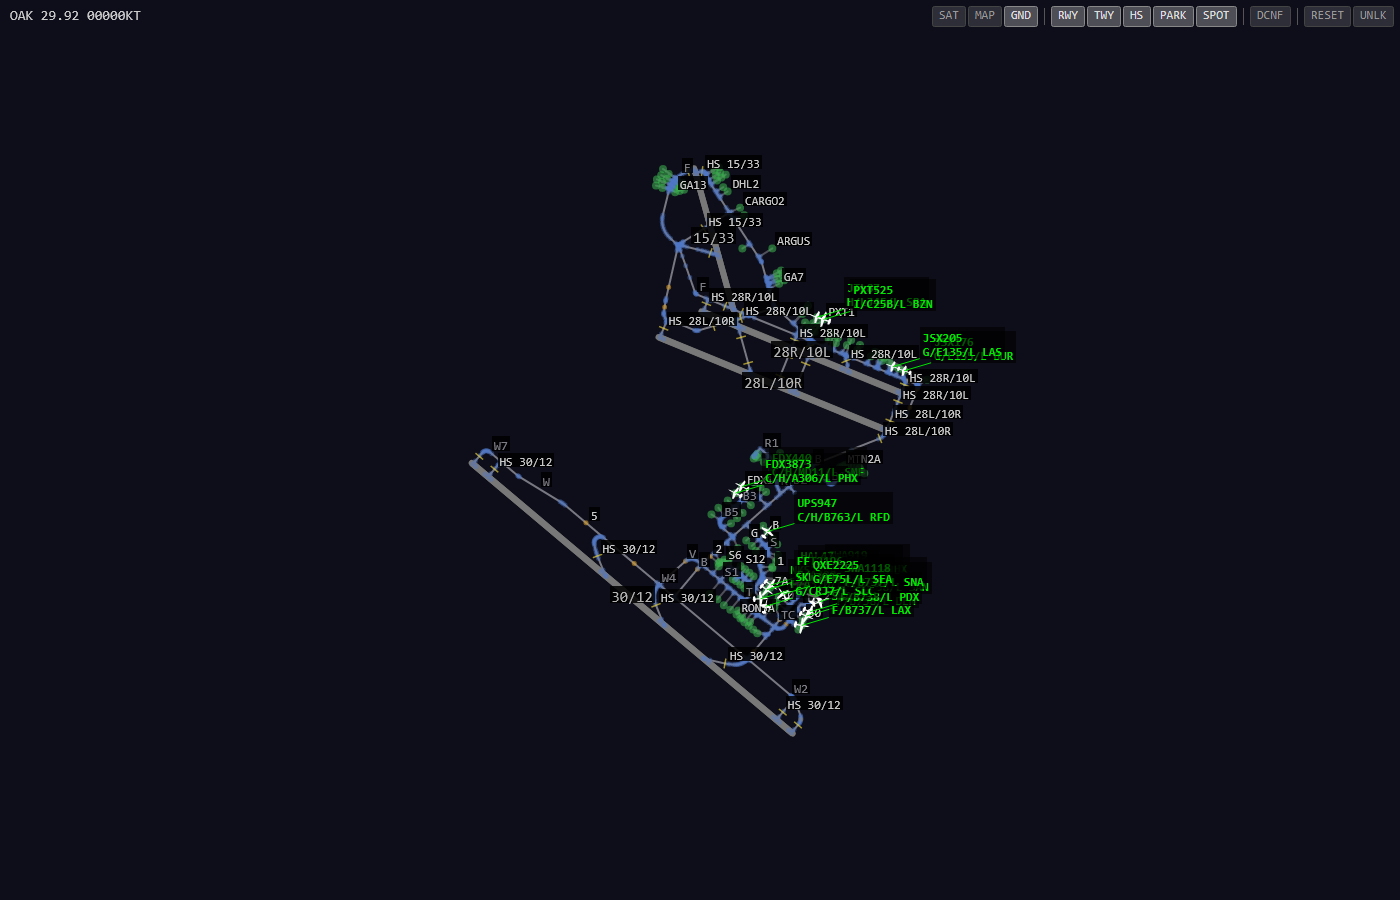
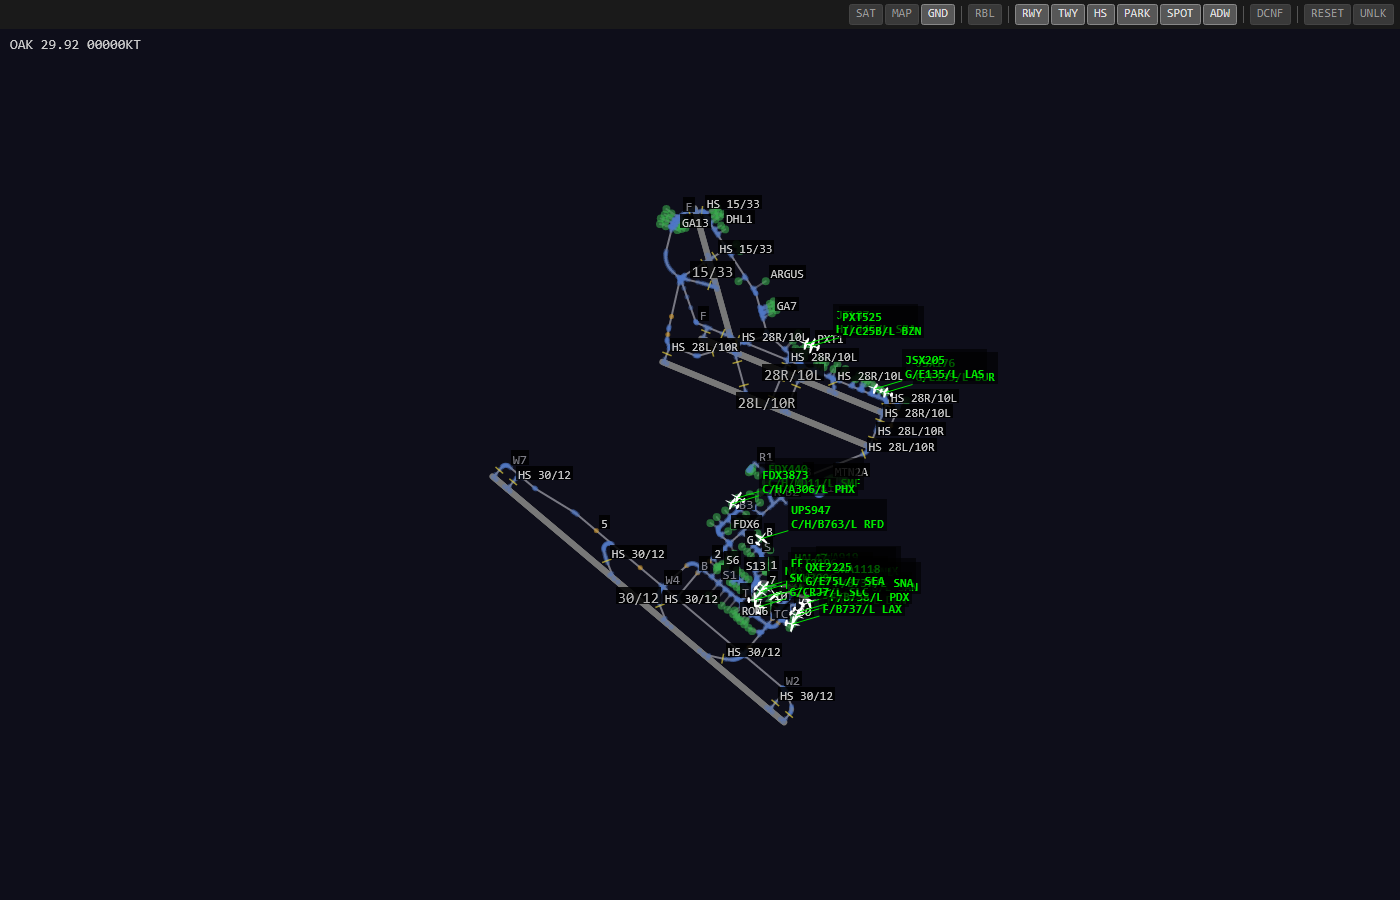
fix: dock Ground View controls bar above the canvas (#403)
- ground view controls bar sits above the map and scrolls sideways when narrow, no longer overlapping the weather readout
- pop-out ground view window has a 400x300 minimum size

Closes #403

Changed region(s): [[0.3379, 0.1867, 0.7371, 0.8089], [0.5836, 0.0, 1.0, 0.0311], [0.0307, 0.0, 0.0921, 0.0622]]

diff --git a/tests/Yaat.Client.UI.Tests/Views/Issue403GroundToolbarLayoutTests.cs b/tests/Yaat.Client.UI.Tests/Views/Issue403GroundToolbarLayoutTests.cs
@@ -1,0 +1,134 @@
+using Avalonia;
+using Avalonia.Controls;
+using Avalonia.Headless.XUnit;
+using Avalonia.Threading;
+using Avalonia.VisualTree;
+using Xunit;
+using Yaat.Client.Models;
+using Yaat.Client.Services;
+using Yaat.Client.ViewModels;
+using Yaat.Client.Views.Ground;
+
+namespace Yaat.Client.UI.Tests.Views;
+
+/// <summary>
+/// Layout coverage for issue #403: the Ground View controls bar was a non-wrapping StackPanel
+/// overlaid on the top-right of the canvas, while the renderer paints the weather readout
+/// ("OAK 29.92 00000KT") at a fixed (10, 20) on that same canvas. In a narrow window the bar's
+/// translucent buttons slid over the readout, and narrower still the bar pinned left and its
+/// trailing buttons were clipped off-screen. The bar now docks above the canvas inside a
+/// horizontal scroller, so no button can ever share pixels with the canvas and every button
+/// stays reachable at any width.
+/// </summary>
+public class Issue403GroundToolbarLayoutTests
+{
+    private const double Epsilon = 0.5;
+
+    [AvaloniaFact]
+    public void ToolbarButtons_NeverOverlapCanvas_AtWideAndNarrowWidths()
+    {
+        var (window, view) = ShowGroundView(800);
+        try
+        {
+            AssertNoButtonOverlapsCanvas(view);
+
+            window.Width = 480;
+            PumpLayout(window);
+            AssertNoButtonOverlapsCanvas(view);
+        }
+        finally
+        {
+            window.Close();
+        }
+    }
+
+    [AvaloniaFact]
+    public void NarrowWidth_ToolbarScrollsInsteadOfClipping()
+    {
+        var (window, view) = ShowGroundView(480);
+        try
+        {
+            var canvas = view.FindControl<GroundCanvas>("Canvas");
+            Assert.NotNull(canvas);
+            Assert.True(canvas.Bounds.Height > 100, $"Canvas collapsed to {canvas.Bounds.Height:F1}px tall");
+
+            var scroller = view.FindControl<ScrollViewer>("ToolbarScroller");
+            Assert.NotNull(scroller);
+            Assert.True(
+                scroller.Extent.Width > scroller.Viewport.Width + Epsilon,
+                $"Toolbar extent {scroller.Extent.Width:F1} should exceed the {scroller.Viewport.Width:F1} viewport so the tail can be scrolled into view"
+            );
+
+            var reset = view.FindControl<Button>("ResetButton");
+            Assert.NotNull(reset);
+            Assert.True(reset.Bounds.Width > 0, "RESET button was clipped to zero width");
+        }
+        finally
+        {
+            window.Close();
+        }
+    }
+
+    private static void AssertNoButtonOverlapsCanvas(GroundView view)
+    {
+        var canvas = view.FindControl<GroundCanvas>("Canvas");
+        Assert.NotNull(canvas);
+        var canvasOrigin = canvas.TranslatePoint(new Point(0, 0), view);
+        Assert.NotNull(canvasOrigin);
+        var canvasRect = new Rect(canvasOrigin.Value, canvas.Bounds.Size);
+
+        var buttons = view.GetVisualDescendants().OfType<Button>().Where(b => b.Classes.Contains("gnd-filter")).ToList();
+        Assert.NotEmpty(buttons);
+
+        foreach (var button in buttons)
+        {
+            var origin = button.TranslatePoint(new Point(0, 0), view);
+            Assert.NotNull(origin);
+            var rect = new Rect(origin.Value, button.Bounds.Size).Deflate(Epsilon);
+            Assert.False(
+                canvasRect.Intersects(rect),
+                $"Button '{button.Content}' at {rect} overlaps the ground canvas at {canvasRect} (view width {view.Bounds.Width:F0})"
+            );
+        }
+    }
+
+    private static (Window Window, GroundView View) ShowGroundView(double width)
+    {
+        var vm = new GroundViewModel(new ServerConnection(), sendCommand: (_, _, _) => Task.CompletedTask) { Layout = MinimalLayout() };
+        var view = new GroundView { DataContext = vm };
+        var window = new Window
+        {
+            Width = width,
+            Height = 600,
+            Content = view,
+        };
+        window.Show();
+        PumpLayout(window);
+        return (window, view);
+    }
+
+    private static void PumpLayout(Window window)
+    {
+        // Headless Avalonia needs a few measure/arrange + dispatcher cycles before
+        // size changes flow to nested controls; pump until stable.
+        for (var i = 0; i < 5; i++)
+        {
+            Dispatcher.UIThread.RunJobs();
+            window.UpdateLayout();
+            Dispatcher.UIThread.RunJobs();
+        }
+    }
+
+    private static GroundLayoutDto MinimalLayout()
+    {
+        // The toolbar is only visible once a layout is loaded; four corner nodes are enough.
+        var nodes = new List<GroundNodeDto>
+        {
+            new(1, 37.61, -122.39, "Taxiway", null, null, null),
+            new(2, 37.63, -122.39, "Taxiway", null, null, null),
+            new(3, 37.61, -122.36, "Taxiway", null, null, null),
+            new(4, 37.63, -122.36, "Taxiway", null, null, null),
+        };
+        return new GroundLayoutDto("SFO", nodes, [], null, null, null);
+    }
+}

diff --git a/src/Yaat.Client/Views/Ground/GroundView.axaml.cs b/src/Yaat.Client/Views/Ground/GroundView.axaml.cs
@@ -1619,4 +1619,23 @@ public partial class GroundView : UserControl
             _canvas.ScrollSensitivity = vm.Preferences.ScrollSensitivity;
         }
     }
+
+    /// <summary>
+    /// Scrolls the docked controls bar sideways when it is wider than the view (the scrollbar is
+    /// hidden, mirroring the radar DCB). Vertical wheel motion maps to horizontal travel; a
+    /// trackpad's horizontal delta is honoured directly.
+    /// </summary>
+    private void OnToolbarPointerWheelChanged(object? sender, PointerWheelEventArgs e)
+    {
+        var scroller = this.FindControl<ScrollViewer>("ToolbarScroller");
+        if (scroller is null)
+        {
+            return;
+        }
+
+        double delta = e.Delta.X != 0 ? e.Delta.X : e.Delta.Y;
+        double sensitivity = _canvas?.ScrollSensitivity ?? 1.0;
+        scroller.Offset = scroller.Offset.WithX(scroller.Offset.X - (Math.Sign(delta) * 40 * sensitivity));
+        e.Handled = true;
+    }
 }

diff --git a/docs/architecture.md b/docs/architecture.md
@@ -73,6 +73,7 @@ The Task Index above tells you *which files*; these docs explain *how each subsy
 
 - **Sim tests**: `tests/Yaat.Sim.Tests/` — commands, phases, physics, parsers, nav data
 - **Client tests**: `tests/Yaat.Client.Tests/` — view model logic, command input
+- **UI tests**: `tests/Yaat.Client.UI.Tests/` — headless window tests for views and layout
 - **Test data**: `tests/Yaat.Sim.Tests/TestData/` — NavData.dat + `navdata-manifest.json`, FAACIFP18.gz + `cifp-manifest.json`, airport GeoJSON. Refresh pins: `tools/refresh-navdata.py`, FAA CIFP via `CifpPathResolver` at test load.
 - **Shared loader**: `TestVnasData.EnsureInitialized()` — always use this, never synthetic stubs
 
@@ -366,8 +367,8 @@ Views/Map/
   RightClickGesture.cs          # Right-button click-vs-drag tracker shared by radar + ground: menu on release-without-drag, pan otherwise
 
 Views/Ground/
-  GroundView.axaml.cs           # Ground view control with context menus + layer toggles (SAT/MAP/GND)
-  GroundViewWindow.axaml.cs     # Pop-out ground window
+  GroundView.axaml.cs           # Ground view control with context menus + docked toolbar (layer/label toggles, hidden-scrollbar horizontal ScrollViewer); OnToolbarPointerWheelChanged wheel-scrolls when toolbar is narrower than content
+  GroundViewWindow.axaml.cs     # Pop-out ground window with enforced minimum dimensions
   GroundCanvas.cs               # SkiaSharp canvas with StyledProperties + hit-testing
   GroundRenderer.cs             # Stateless SkiaSharp ground renderer (3 layers: satellite, video map, YAAT layout); skips never-driven >155° hairpin fillet arcs; DrawAdwMarks strokes the server-resolved ADW reference ticks (ADW toolbar toggle)
 

diff --git a/docs/ground-rendering.md b/docs/ground-rendering.md
@@ -14,7 +14,7 @@ For taxi-route *resolution and following* (the pathfinder and navigator), see [`
 |------|------|
 | `Views/Ground/GroundCanvas.cs` | `MapCanvasBase` subclass: `StyledProperty` inputs, pointer input, hit-testing, per-frame `RenderSnapshot` assembly, per-callsign canvas-local display state |
 | `Views/Ground/GroundRenderer.cs` | Stateless SkiaSharp drawing: 3 background layers + route overlays + nodes + aircraft + datablocks. Owns the `SKPaint`s. `Render(...)` is the whole frame |
-| `Views/Ground/GroundView.axaml` + `.axaml.cs` | The user control: binds VM → canvas styled properties, wires canvas events, builds the right-click context menus, hosts the layer/label toolbar |
+| `Views/Ground/GroundView.axaml` + `.axaml.cs` | The user control: binds VM → canvas styled properties, wires canvas events, builds the right-click context menus, hosts the layer/label toolbar (docked above the canvas in a hidden-scrollbar horizontal `ScrollViewer`, wheel-scrolled when narrower than its content) |
 | `Views/Ground/GroundViewWindow.axaml.cs` | Pop-out window host — shares the same `MainViewModel.Ground` view-model instance |
 | `ViewModels/GroundViewModel.cs` | Ground-view state: layout load, per-scenario view settings, taxi-route overlays, draw-route mode, display prefs |
 

diff --git a/USER_GUIDE.md b/USER_GUIDE.md
@@ -437,7 +437,7 @@ Selecting a preset is identical to typing the equivalent `TAXI` command (`TAXI T
 
 **Debug overlay:** Press **Ctrl+D** to toggle node IDs, names, types, and edge labels on the ground map. Useful for finding node IDs for manual `#nodeId` taxi commands.
 
-**Controls bar** (top-right corner):
+**Controls bar** (above the map, right-aligned; when the window is too narrow for every button, hover the bar and roll the mouse wheel to scroll it sideways):
 - **Layer toggles** — **SAT** (satellite background image), **MAP** (video map overlay), **GND** (YAAT ground layout)
 - **Label filters** — **RWY** and **TWY** toggle labels on/off. **HS**, **PARK**, and **SPOT** are tri-state: labels+icons → icons only → hidden. Hovering over a hidden element temporarily shows it.
 - **ADW** — Arrival/Departure Window marks (see below). On by default; nothing is drawn at airports where no window is published.

diff --git a/CHANGELOG.md b/CHANGELOG.md
@@ -1,5 +1,10 @@
 # Changelog
 
+## Unreleased
+
+### Fixed
+- Ground View controls bar sits above the map and scrolls sideways when the window is narrow, no longer overlapping the weather readout; the pop-out window has a minimum size. (#403)
+
 ## v0.12.20-beta [2026/08/25]
 
 ### Highlights
